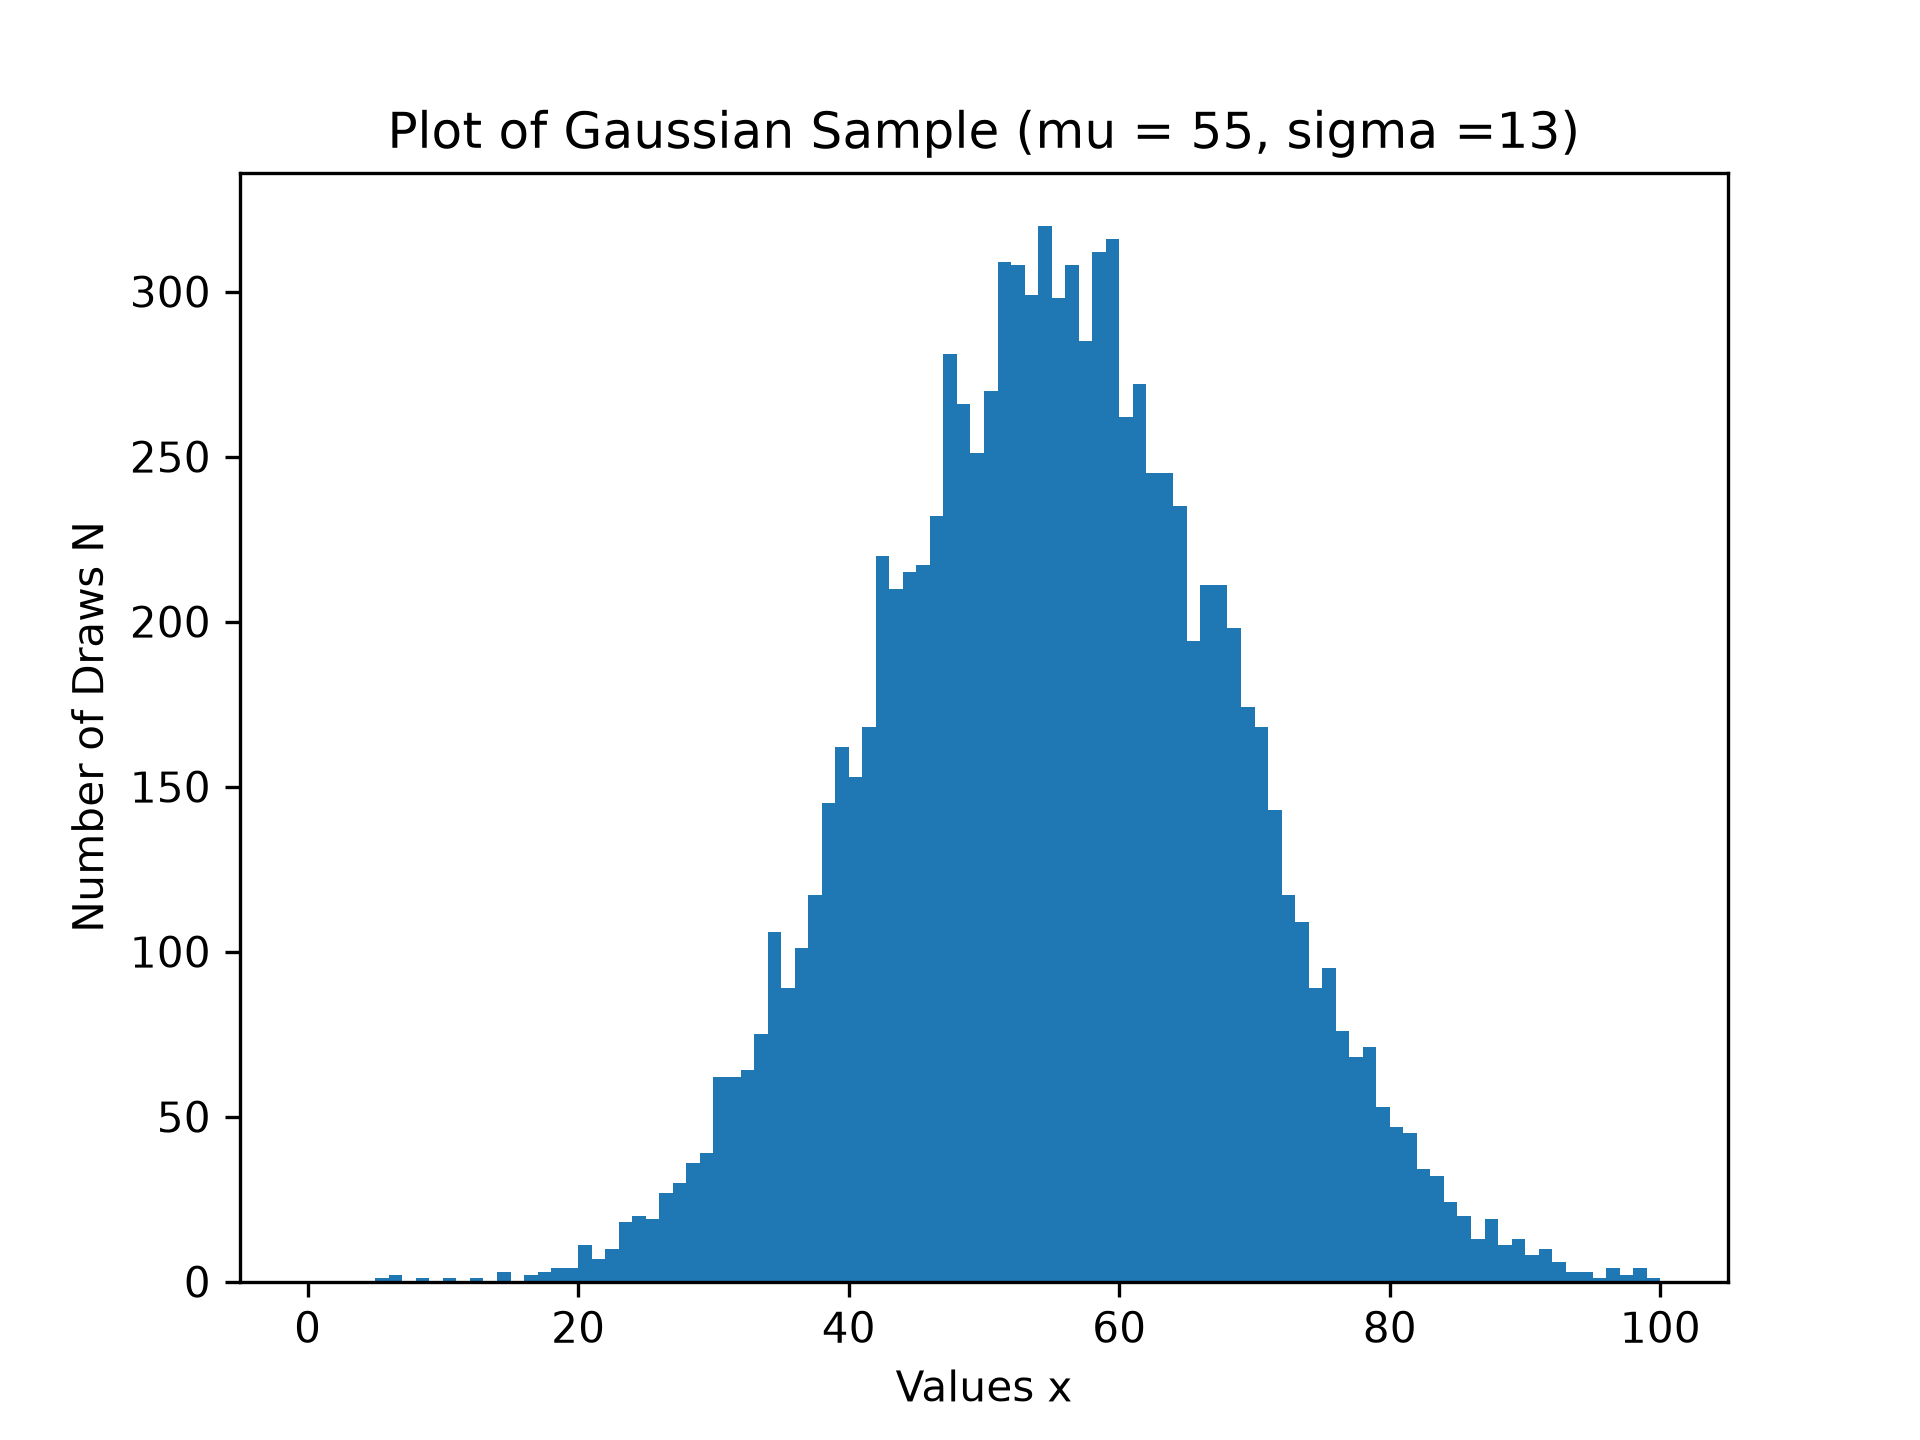
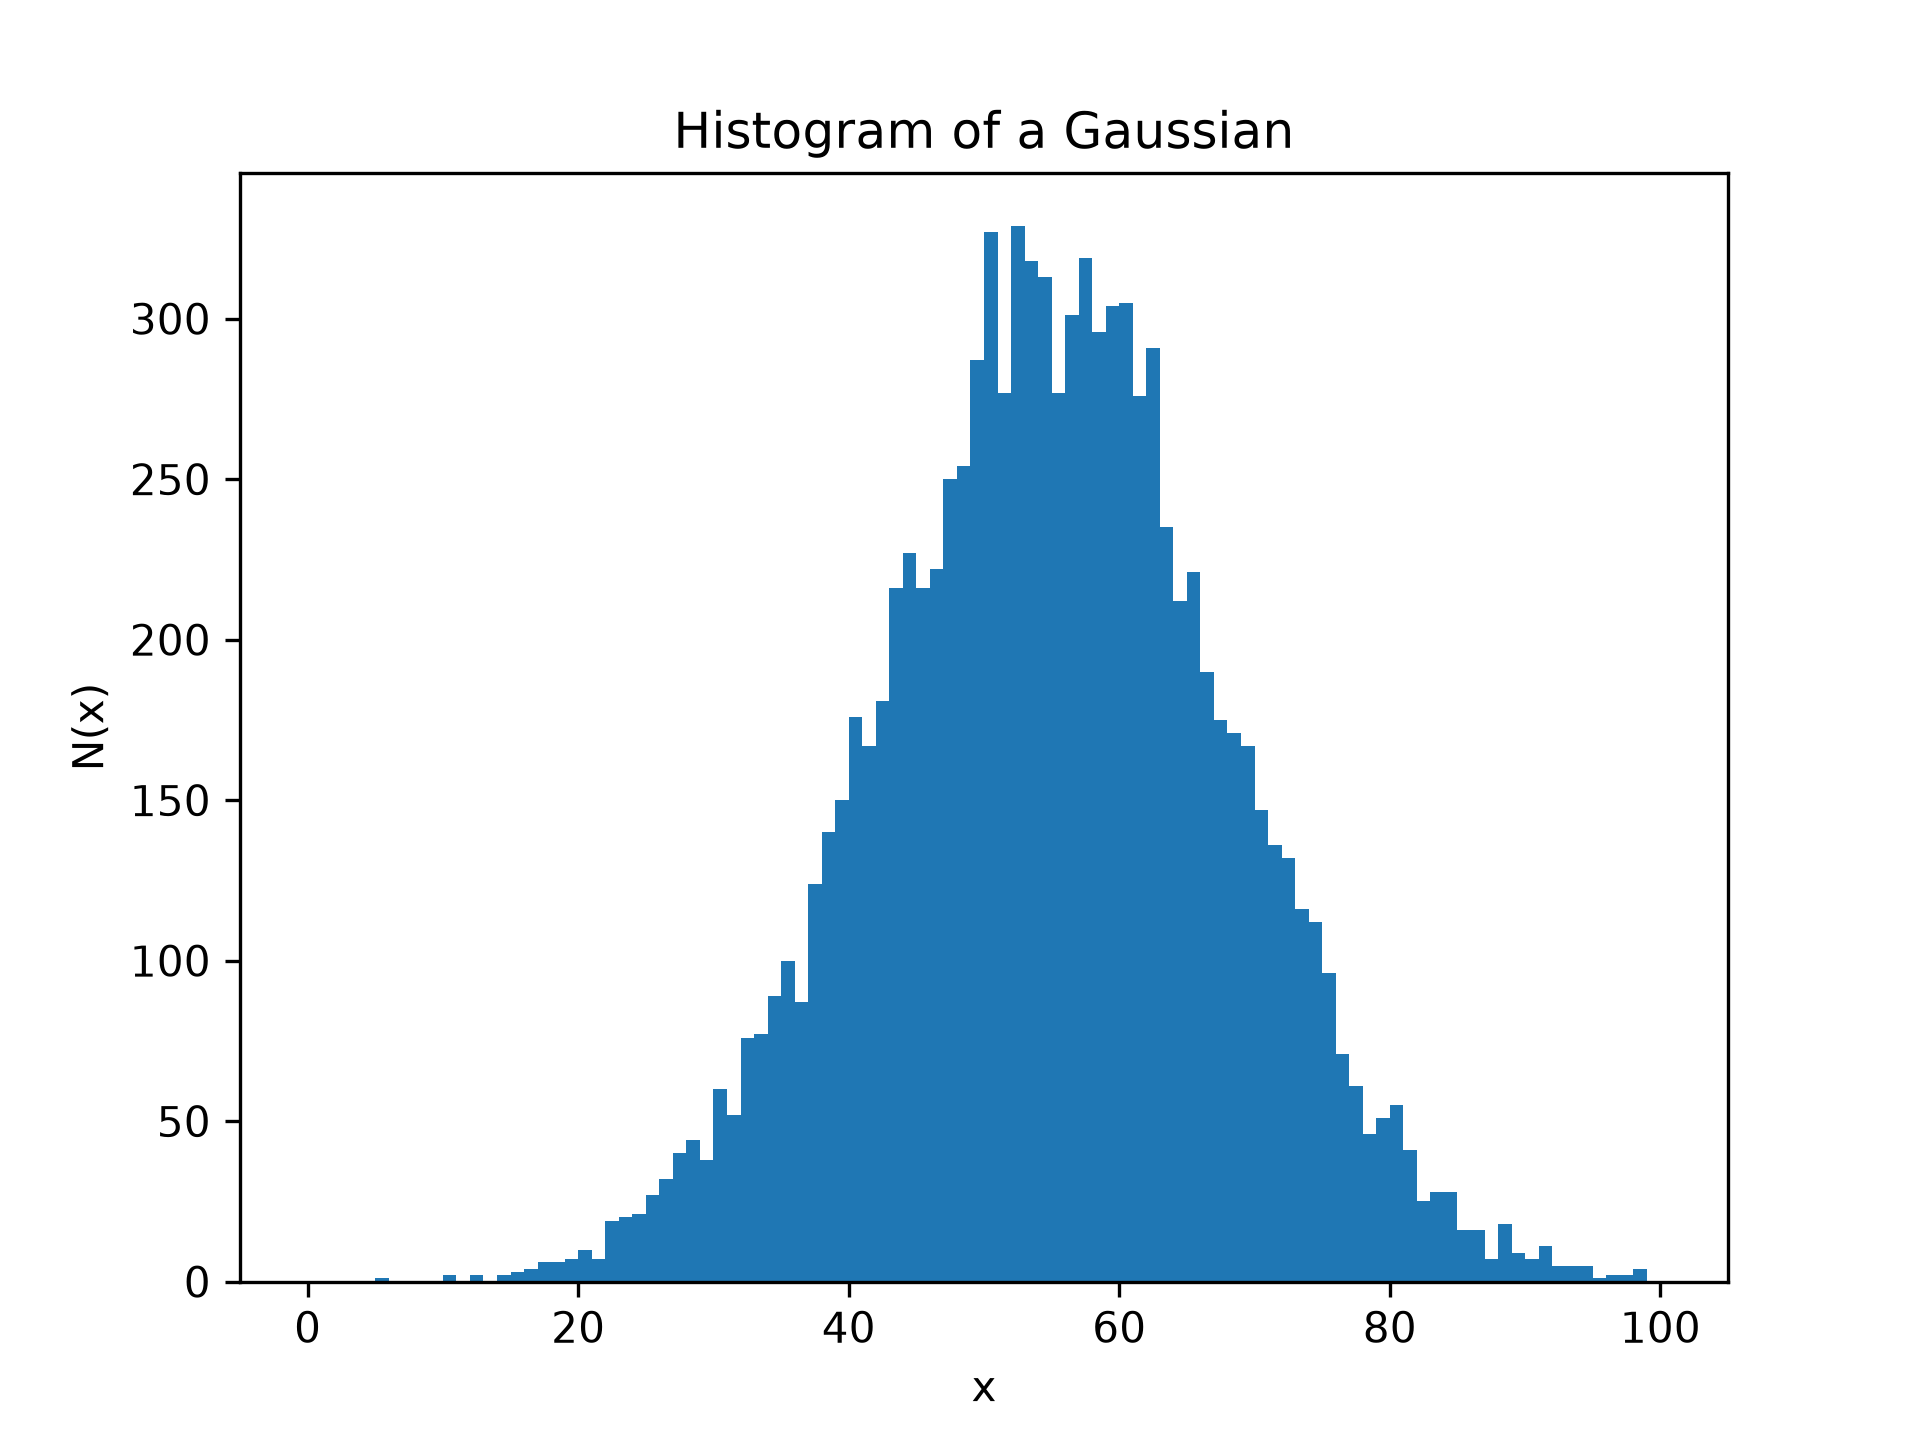
Problem 2a-c completed, histogram added, equation added

diff --git a/homework/hw4_jmschroeder/hw4_jmschroeder.py b/homework/hw4_jmschroeder/hw4_jmschroeder.py
@@ -9,12 +9,13 @@
 #Sep 20, 2026
 
 
-# In[4]:
+# In[1]:
 
 
 print( 'Problem 2, Parts a-c' )
 
 import numpy as np
+import matplotlib.pyplot as plt
 
 #values of mu, sigma, and N corresponding to Problem 2
 mu = 55
@@ -28,6 +29,31 @@ sample = np.random.normal(mu, sig, N)
 
 #prints 'sample' as a check 
 print(sample)
+
+#creates histogram of 'sample' with limits 'bins'
+bins = np.arange( 0,101, 1 )
+plt.hist( sample, bins=bins )
+
+#creates a plot of the Gaussian distribution, scales it to N, and plots it accordingly
+x = np.arange( 0.5, 100, 1 )
+gaussian = ( 1 / (sig*np.sqrt(2*np.pi)) ) * np.exp( -0.5*((x-mu)/sig)**2 )
+gaussian = gaussian * N
+plt.plot( x, gaussian)
+
+#organizes and presents the histogram of 'sample'
+plt.xlabel( 'x' )
+plt.ylabel( 'N(x)' )
+plt.title( 'Histogram of a Gaussian' )
+
+#displays and shows the histogram as a png
+plt.savefig( 'hw4_jmschroeder_plotofgaussiansample.png' , dpi = 300 )
+plt.show()
+
+
+# In[ ]:
+
+
+
 
 
 # In[ ]:
